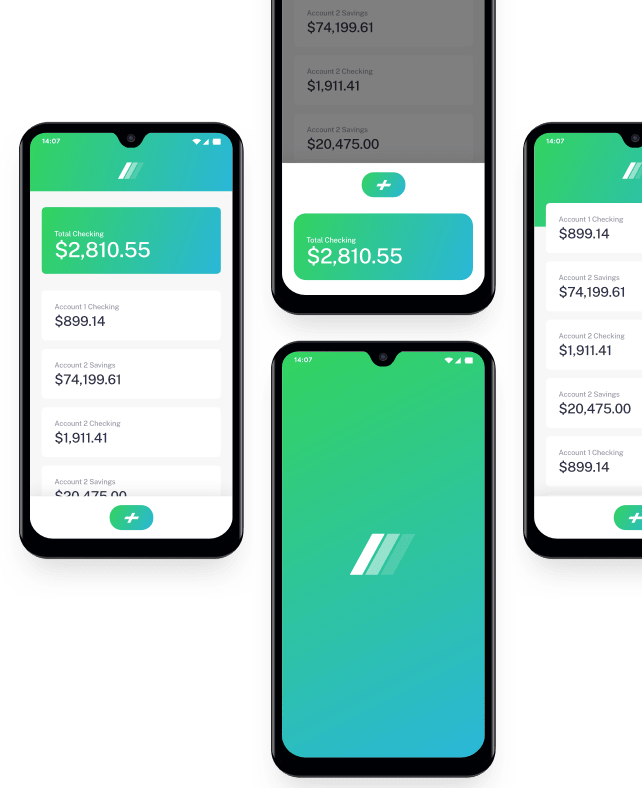
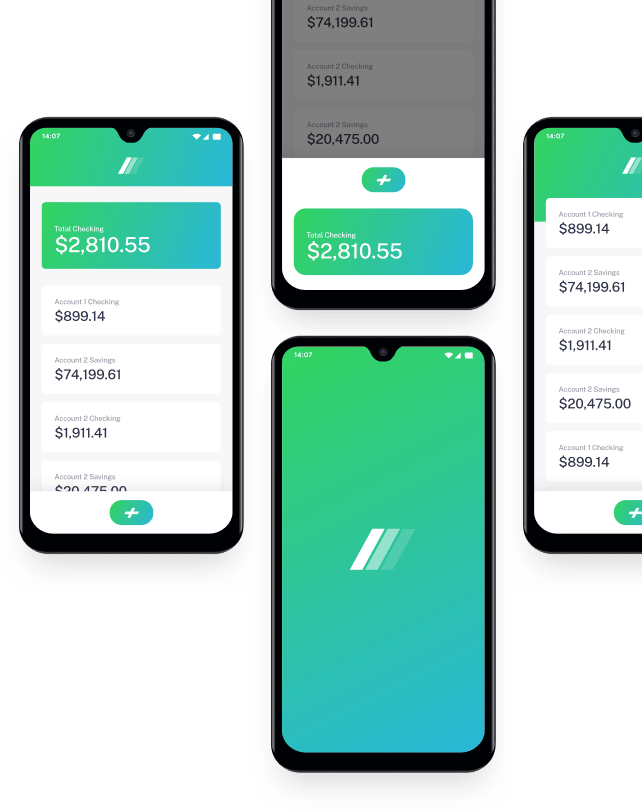
commit new

diff --git a/style.css b/style.css
@@ -16,7 +16,7 @@ body{
     padding: 0px 100px;
 }
 .page1{
-   height: 600px; 
+   height: 550px; 
 }
 .right-side{
     position: absolute top ;
